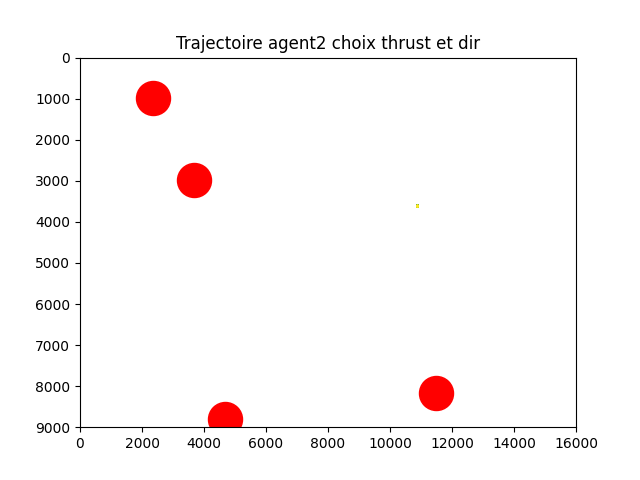
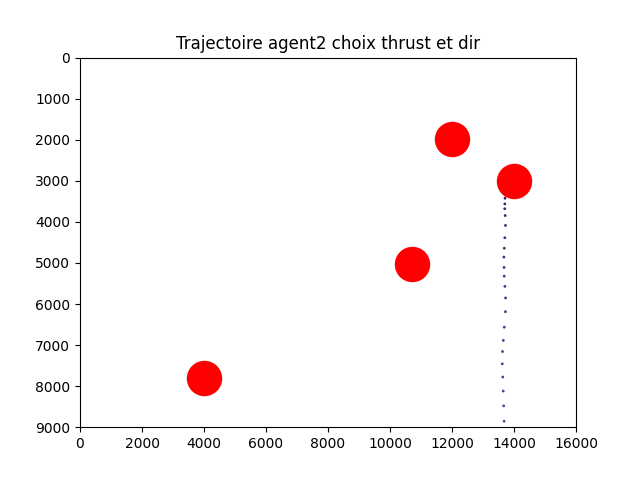
fct comp

diff --git a/src/visualisation.py b/src/visualisation.py
@@ -164,10 +164,10 @@ def comparatif():
     timestamp = datetime.now().strftime("%d-%m")
     
     #Agent choisit uniquement thrust
-    agent1 = Qagent(MPR_env(),episodes=50, max_steps=2000, do_test=True)
+    agent1 = Qagent(MPR_env(),episodes=5000, max_steps=2000, do_test=True)
 
     #Agent choisit thrust et cible
-    agent2 =  Qagent(MPR_env_light(custom=False, nb_round=1,nb_cp=3), do_test=True, episodes= 100, max_steps=20000)
+    agent2 =  Qagent(MPR_env_light(custom=False, nb_round=1,nb_cp=3), do_test=True, episodes= 10000, max_steps=20000)
 
     
     #Agent heuristique
@@ -181,25 +181,21 @@ def comparatif():
 
 
     #recuperation des traj
-    board1 = Board(3,1,False)
+    board1 = Board(custom=True,nb_round=4,nb_cp=3)
     board2 = board1.copy()
 
-    env_test_dir = MPR_env()
-    env_test_dir.board = board1
 
-    env_test = MPR_env()
-    env_test.board = board2
+    # agent1.env.board = board1
+    # agent2.env.board = board2
 
-    agent1.env = env_test
-    agent2.env = env_test_dir
     
-    coord_agent1 = agent1.one_run()
-    coord_agent2 = agent2.one_run()
+    coord_agent1 = agent1.one_run(board1)
+    coord_agent2 = agent2.one_run(board2)
     coord_agent3 = agent3.get_one_traj(board1.copy())
 
     #plot traj
-    b_x= [b.getCoord()[0] for b in env_test.board.checkpoints]
-    b_y= [b.getCoord()[1] for b in env_test.board.checkpoints]
+    b_x= [b.getCoord()[0] for b in board1.checkpoints]
+    b_y= [b.getCoord()[1] for b in board1.checkpoints]
     x1,y1 = zip(*coord_agent1)
     x2,y2 = zip(*coord_agent2)
     x3,y3 = zip(*coord_agent3)

diff --git a/src/env.py b/src/env.py
@@ -60,8 +60,10 @@ class MPR_env():
         bins = [600,700,800,1000,2000,3000,5000,6000,8000,100000]
         return np.digitize(dist,bins)
 
-    def reset(self,seed=None,options=None):
+    def reset(self,seed=None,options=None, board=None):
         self.board = Board(nb_cp=4,nb_round=3,custom =self.custom)
+        if board is not None:
+            self.board = board
         self.terminated = False
         self.traj = []
         self.vitesse = []

diff --git a/src/qagent.py b/src/qagent.py
@@ -81,9 +81,8 @@ class Qagent:
         # self.env.show_traj()
         return pas, cum_reward
 
-    def one_run(self):
-        
-        state= self.env.reset()
+    def one_run(self, board =None):
+        state= self.env.reset(board=board)
         for j in range(self.max_steps):
             action = np.argmax(self.qtable[state])
             next_state,reward,terminated = self.env.step(action)

diff --git a/src/env_dir.py b/src/env_dir.py
@@ -298,8 +298,10 @@ class MPR_env_light():
     
 
 
-    def reset(self):
+    def reset(self, board=None):
         self.board = Board(nb_cp=self.nb_cp,nb_round=self.nb_round,custom =self.custom)
+        if board is not None:
+            self.board = board
         self.terminated = False
         self.traj = []
         self.old_dist = 0
